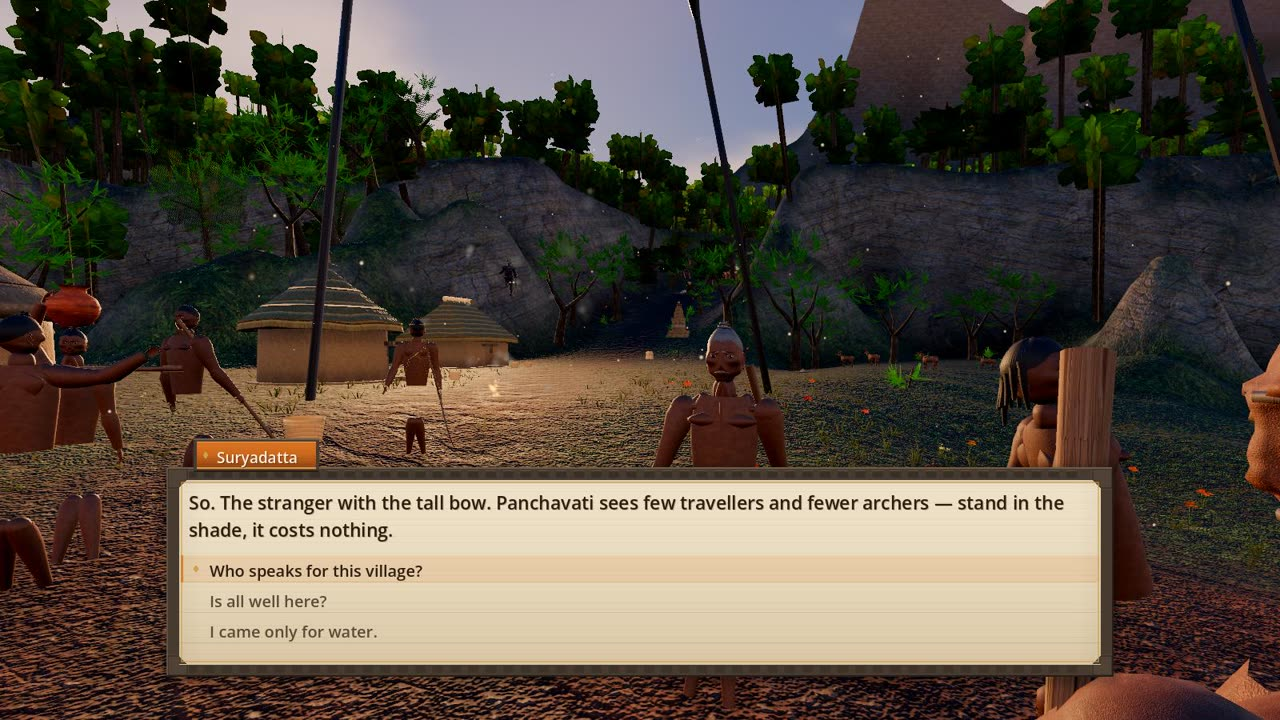
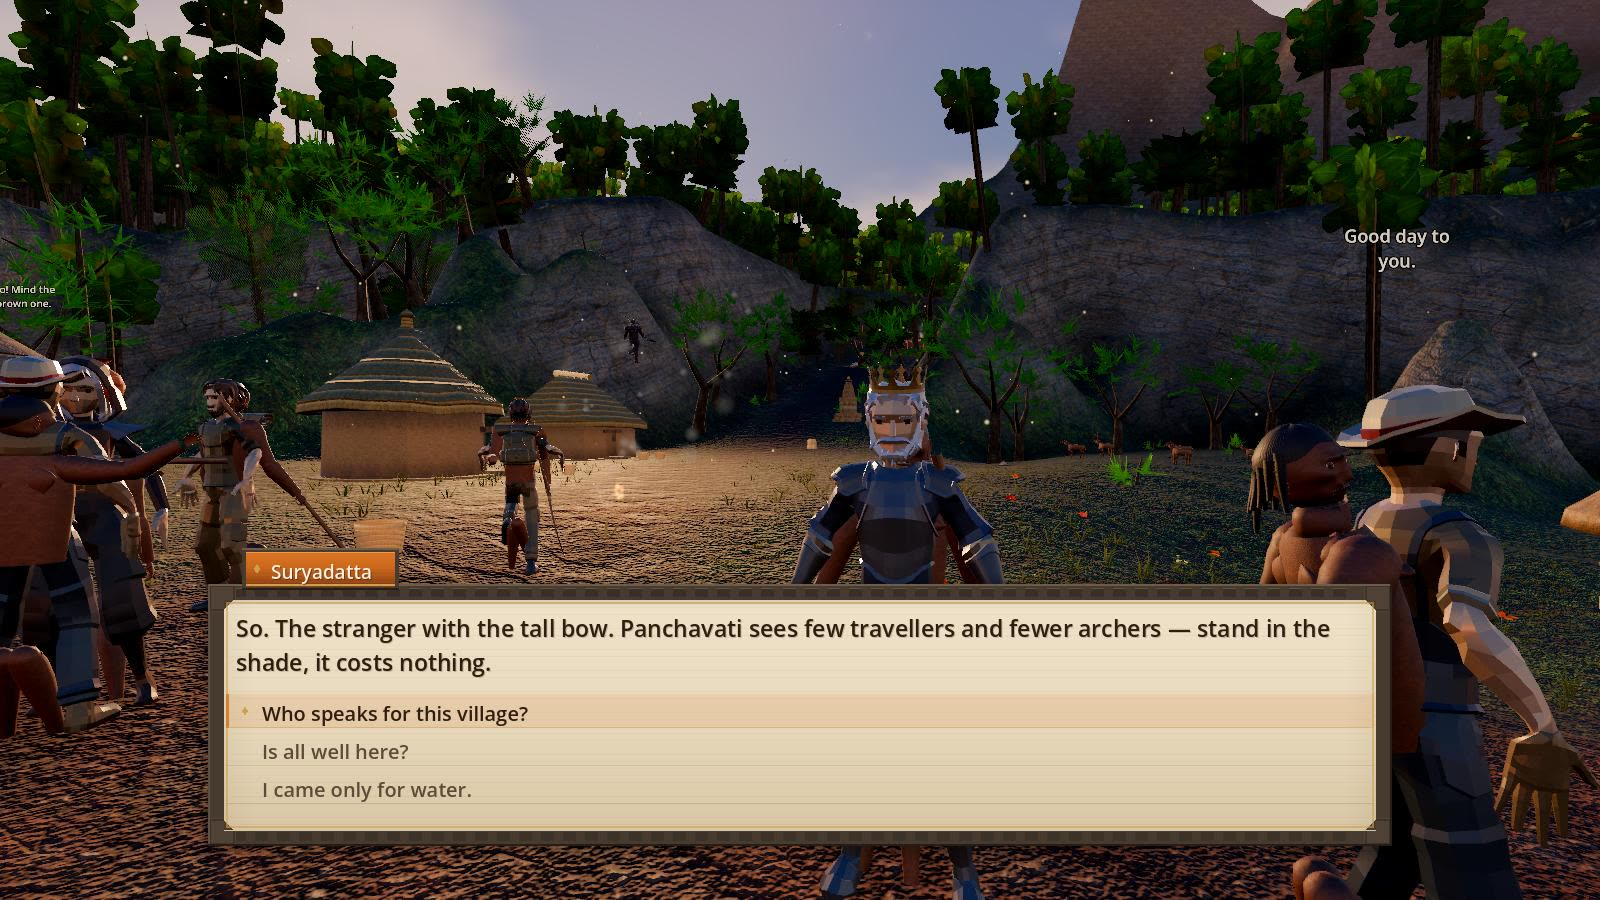
Update the README stills and test figures after re-recording
The three stills come from the new recording (the retarget fix removed the dark object from
the village views). The status paragraph now says 20 suites (16 headless) and carries the
figures from this session's full gate: mean 41 fps over six legs, worst leg 38 fps, at a
load average of about 5, CPU frame times only.

diff --git a/ROADMAP.md b/ROADMAP.md
@@ -42,7 +42,7 @@ the `scenes/qa3d_*.tscn` harnesses.
 |---|---|---|
 | vegetation | 3D leaves, grass ribbons, petals and palm pinnae are implemented but never rendered and inspected | `scripts/world/veg3d_leaf.gd`, `ground3d_flora.gd`, `tree_builder.gd`, `vegetation.gd`; harnesses `scenes/qa3d_edgeon.tscn`, `qa3d_cover.tscn`, `qa3d_world.tscn` |
 | performance | Villagers drop shadows beyond 25 m and are hidden beyond 90 m (`NPCLod`). From a fixed camera in the village the 14 villagers cost about 75 draw calls each without LOD and about 25 with it (village 2518-2788 draws without, 1813-2040 with, at the High tier, 2026-11-13, load average 16-47; draw counts do not depend on load). `perf` asserts a budget of 2300. Enemies have no distance LOD yet | `scripts/ai/npc_lod.gd`, `tests/perf_test.gd` |
-| performance | `perf` passes (2026-11-13: mean 36 fps, worst leg 31 fps, gate 20 fps) but was measured at a load average of 15 to 20, so the figures are indicative; a run on a quiet machine is still owed | `tools/run_tests.sh perf` |
+| performance | `perf` passes (2026-11-13: mean 41 fps, worst leg 38 fps, gate 20 fps; CPU frame times, the GPU column is 0 off-screen) but was measured at a load average of about 5 on a laptop in use, so the figures are indicative; a run on a quiet machine is still owed | `tools/run_tests.sh perf` |
 | rendering | A new game warms the shaders behind a loading screen (four views from the spawn point), which cut the worst frame in the first 30 s of play from 442-853 ms to 81-116 ms (three runs each, load average 16-47, so indicative). Regions the spawn view does not show (river, forest, shrine) can still hitch on first entry | `scripts/core/game.gd`, `tests/probes/first_30s_probe.gd` |
 | rendering | distant foliage billboards alpha-dither against the sky; the horizon ends at the world edge with no backdrop | `scripts/world/vegetation.gd` FAR LOD, `scripts/world/sky_system.gd` |
 | repo hygiene | 26 scripts are still over the 500-line house limit and are known debt (line counts on 2026-11-13): `quest/interactables.gd` 2545, `world/architecture.gd` 2278, `ai/enemy_types.gd` 1713, `quest/dialogue_data.gd` 1616, `ai/enemy.gd` 1550, `world/tree_builder.gd` 1486, `world/wildlife.gd` 1456, `ai/npc.gd` 1412, `ui/hud.gd` 1391, `world/vegetation.gd` 1227, `world/vfx.gd` 1143, `world/settlement.gd` 1142, `world/ground3d_flora.gd` 1066, `world/water.gd` 996, `ai/beast_rig.gd` 905, `quest/quest_system.gd` 879, `player/player.gd` 795, `ui/inventory_panel.gd` 784, `ai/creature_kit.gd` 782, `ai/npc_director.gd` 730, `ui/journal_panel.gd` 677, `quest/quest_data.gd` 606, `ui/dialogue_box.gd` 578, `ui/theme.gd` 551, `world/veg3d_leaf.gd` 534, `ai/enemy_director.gd` 514; and the test scripts `enemy_test.gd` 1231, `npc_test.gd` 1063, `quest_test.gd` 985, `ui_test.gd` 781. Split so far, each behind a golden-file test: `mesh_kit.gd` (now 6 files), `world_map.gd` (6 files), `proc_rig.gd` (6 files). `.gdlintrc` `max-file-lines` is 2550, just above the largest, and only goes down | `scripts/`, `.gdlintrc` |
@@ -60,7 +60,7 @@ the `scenes/qa3d_*.tscn` harnesses.
 - [ ] Run the full `tools/run_tests.sh` including `perf` on a quiet machine
 - [ ] Record the result and the renders in `DEVELOPMENT_LOG.md` §16 or a new section
 
-**Done when:** `tools/run_tests.sh` prints `== ALL PASS ==` with all 19 suites, and the
+**Done when:** `tools/run_tests.sh` prints `== ALL PASS ==` with all 20 suites, and the
 close-up PNGs are committed to the log entry with a one-line verdict each.
 
 ### M2 — Re-baseline performance and add character LOD
@@ -107,7 +107,7 @@ and `tests/acceptance_test.gd` has a checklist row for each new mechanic.
 - [ ] No script grows past its current size; new systems land under 500 lines
 - [ ] Delete `overhaul/3d-and-depth` once M1 confirms `main` is sound
 
-**Done when:** `tools/run_tests.sh` still runs 19 suites from their new location and
+**Done when:** `tools/run_tests.sh` still runs 20 suites from their new location and
 `git branch -a` shows only `main`.
 
 ## Won't do / out of scope
@@ -123,7 +123,7 @@ and `tests/acceptance_test.gd` has a checklist row for each new mechanic.
   touch them, not as a project of their own.
 - Exports for Windows or Linux. The only preset is macOS (`export_presets.cfg`, unsigned);
   the renderer is Forward+/Metal.
-- CI for the rendered suites. `.github/workflows/ci.yml` runs gdlint and the 15 headless
+- CI for the rendered suites. `.github/workflows/ci.yml` runs gdlint and the 16 headless
   suites on ubuntu-latest. `quests`, `perf`, `accept` and `ui` need the macOS embedded
   renderer and a GPU, so they run on the owner's Mac. Check with
   `tools/run_tests.sh --list`.

diff --git a/README.md b/README.md
@@ -16,10 +16,11 @@ characters (Rama, Sita, Lakshmana, sages, guards and villagers), from Quaternius
 lists each file with its source, author and licence.
 
 **Status (2026-11-13): release candidate, draft.** The quiet test gate (`tools/run_tests.sh`)
-runs 19 suites and all 19 passed on the last full run, including the four that need a
-renderer (they run off-screen on a Mac). The frame-time figures from that run were taken at
-a load average of 15 to 20, so treat them as indicative: mean 36 fps over six legs, worst leg
-(deep wood) 31 fps, village 38 fps; the gate is 20 fps. CI runs the 15 headless suites on every
+runs 20 suites and all 20 passed on the last full run, including the four that need a
+renderer (they run off-screen on a Mac). The frame-time figures from that run were taken on a
+development laptop that was in use (load average about 5), and they are CPU frame times (the GPU
+column reads 0 off-screen), so treat them as indicative: mean 41 fps over six legs, worst leg
+(deep wood) 38 fps, village 44 fps; the gate is 20 fps. CI runs the 16 headless suites on every
 push. See [ROADMAP.md](ROADMAP.md) for what is next.
 
 ---
